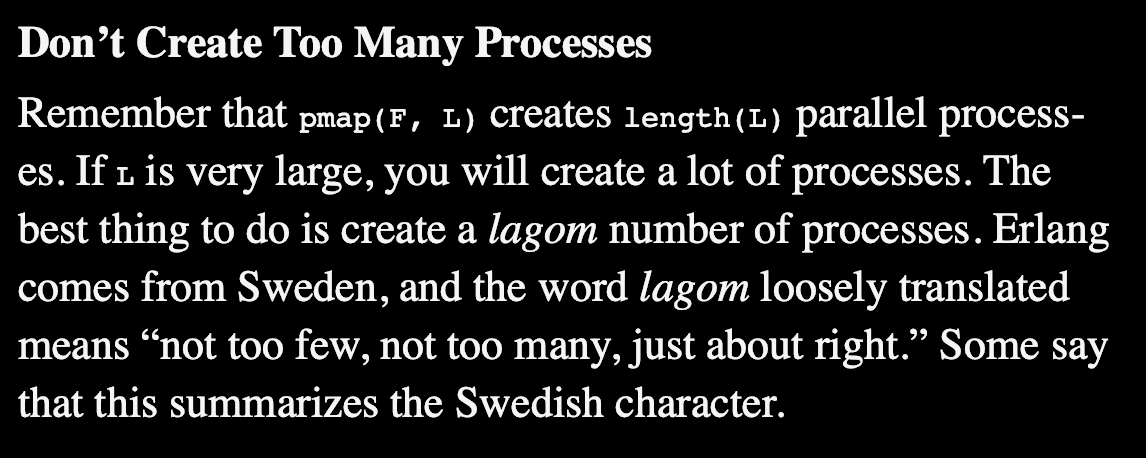
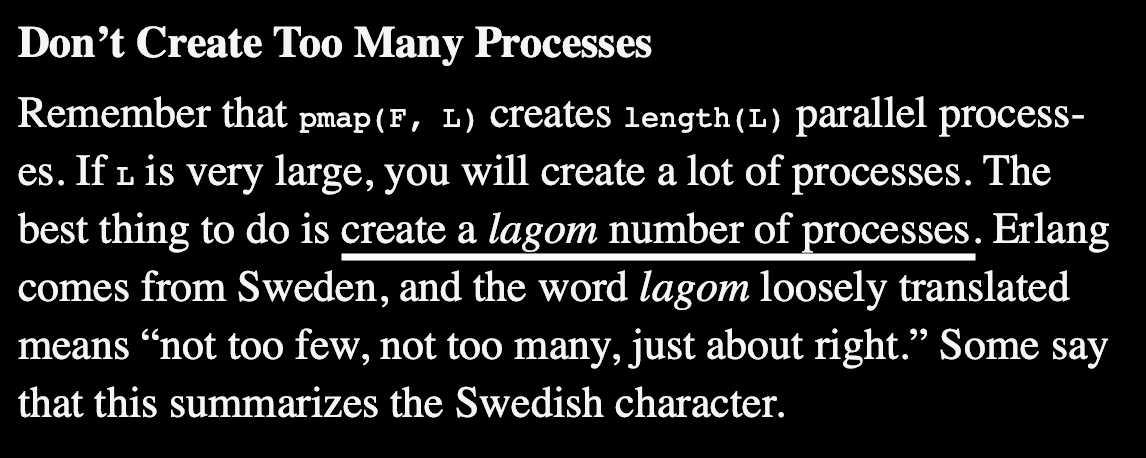
More to go...

Changed region(s): [[0.2749, 0.5502, 0.8551, 0.5808]]

diff --git a/rikitake-codebeamsto2019-beamparadigm.md b/rikitake-codebeamsto2019-beamparadigm.md
@@ -96,6 +96,8 @@ Stockholm, Sweden
 
 ---
 
+![](jen-p-541456-modified.jpg)
+
 # The philosophy of the BEAM languages/systems:
 # [fit] Lagom
 
@@ -103,44 +105,61 @@ Stockholm, Sweden
 
 ---
 
-![](jen-p-541456-modified.jpg)
+# [fit] Lagom: not too much, not too little, just right
 
-# Lagom
+## Lagom är bäst
 
-## [fit] not too much, not too little, just right
-## ` `
-## ` `
-## ` `
-## ` `
-## ` `
-## ` `
-## ` `
-## ` `
-## ` `
-## ` `
-## ` `
-## ` `
+### Just the right amount is best / enough is as good as a feast [^3]
 
-^ Lagom is a Swedish word explaning a state of not too much, not too little, and just right, amount, quantity, or a level of strength.
+[^3]: [Wikitionary entry of "Lagom är bäst"](https://en.wiktionary.org/w/index.php?title=lagom_%C3%A4r_b%C3%A4st&oldid=44679439)
+
+
+^ Lagom is a Swedish word explaning a state of not too much, not too little, and just right, amount, quantity, or a level of strength. There is a popular Swedish quote which says "Lagom är bäst", which means just the right amount is best.
 
 ---
 
-# [fit] 中庸
-## The doctrine of the Mean
-# μεσότης
-## Golden Middle Way
-# [fit] Lagom är bäst
+# Lagom in philosophy
 
-^ You can find a few philosophical concepts similar to lagom in the world. In China and Japan, the word Zhongyong or Chu-yaw, also called The doctrine of the Mean in English, is popular for not pursuing in the excessive ways. In the old Greek Ethics of Aristotle, it's called "mesotes", also called Golden Middle Way. And in Swedish, there's a phrase called Lagom är bäst, which means Lagom is best.
+## 中庸 / Zhōngyōng, Chu-yaw
+### Confucianism: Doctrine of the Mean
+## μεσότης / mesotes
+### Aristotle: Golden Mean
+
+^ You can find a few philosophical concepts similar to lagom in the world. In China and Japan, the word Zhongyong or Chu-yaw, also called The doctrine of the Mean in English, is popular for not pursuing in the excessive ways. In the old Greek Ethics of Aristotle, it's called "mesotes", also called Golden Mean, which is about the desirable middle between two extremes of excess and deficiency.
 
 ---
 
-# Quote from Programming Erlang [^3]
+# Quote from Programming Erlang [^4]
 
 ![inline, fit](programming-erlang-lagom.png)
 
 
-[^3]: Joe Armstrong, ["Programming Erlang", Second Edition, Pragmatic Bookshelf](https://pragprog.com/book/jaerlang2/programming-erlang), 2013, Section 26.3, "Parallelizing Sequential Code"
+[^4]: Joe Armstrong, ["Programming Erlang", Second Edition, Pragmatic Bookshelf](https://pragprog.com/book/jaerlang2/programming-erlang), 2013, Section 26.3, "Parallelizing Sequential Code"
+
+^ Joe Armstrong writes in his book of Programming Erlang that creating a lagom number of processes is essential, and that the word lagom summarizes the Swedish character. Joe is a British person, so I guess he found the usage of lagom intriguing.
+
+---
+
+# Erlang's programming paradigms [^5]
+
+* Functional programming
+* Message-passing concurrent programming
+* Multi-agent programming (Erlang processes)
+* Some shared states (Process dictionaries, ETS, Mnesia)
+
+[^5]: Peter Van Roy: [Programming Paradigms for Dummies: What Every Programmer Should Know](https://www.info.ucl.ac.be/~pvr/paradigms.html), 2009, Figure 2 (Taxonomy of programming paradigms) and Table 1 (Layered structure of a definitive programming language)
+
+^ Let's get back to the topic of programming paradigms. Peter Van Roy states Erlang has four major paradigms: functional programming, message-passing concurrent programming, multi-agent programming with the Erlang processes, and also including some shared states such as the process dictionaries, ETS, and Mnesia. These paradirm elements are also equally adaptive to Elixir and other BEAM languages.
+
+---
+
+# Hidden BEAM programming paradigms [^6]
+
+* Safety first, speed second
+* Strong enforcement of immutability
+* Shared-nothing and deep-copy storage handling (no reference)
+
+[^6]: Kenji Rikitake, [Erlang and Elixir Fest 2018 Keynote Presentation](https://speakerdeck.com/jj1bdx/erlang-and-elixir-fest-2018-keynote), 16-JUN-2018, Tokyo, Japan
 
 ---
 
@@ -188,6 +207,8 @@ We will remember you.
 * Title: [Photo by Masayoshi Yamase on Unsplash](https://unsplash.com/@myana)
 
 * Lagom: [Photo by Jen P. on Unsplash](https://unsplash.com/@talesbyjen)
+
+* Programming Erlang quote: from Pragmatic Bookshelf's EPUB ebook, underline added by Kenji Rikitake
 
 * Joe Armstrong: [Photo by Brian L. Troutwine](https://www.dropbox.com/sh/18w4l9vbmgu98ov/AAAiTRknnIBbJAOEmn72INRfa?dl=0), edited by Kenji Rikitake, licensed [CC BY-NC 4.0 International](https://creativecommons.org/licenses/by-nc/4.0/)
 
